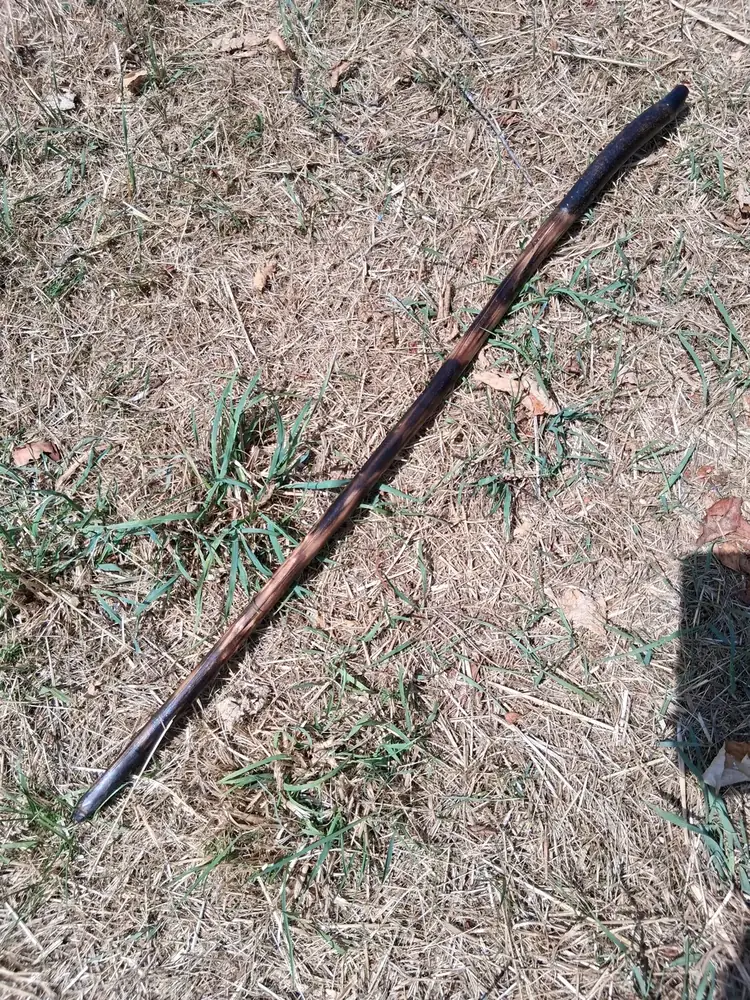
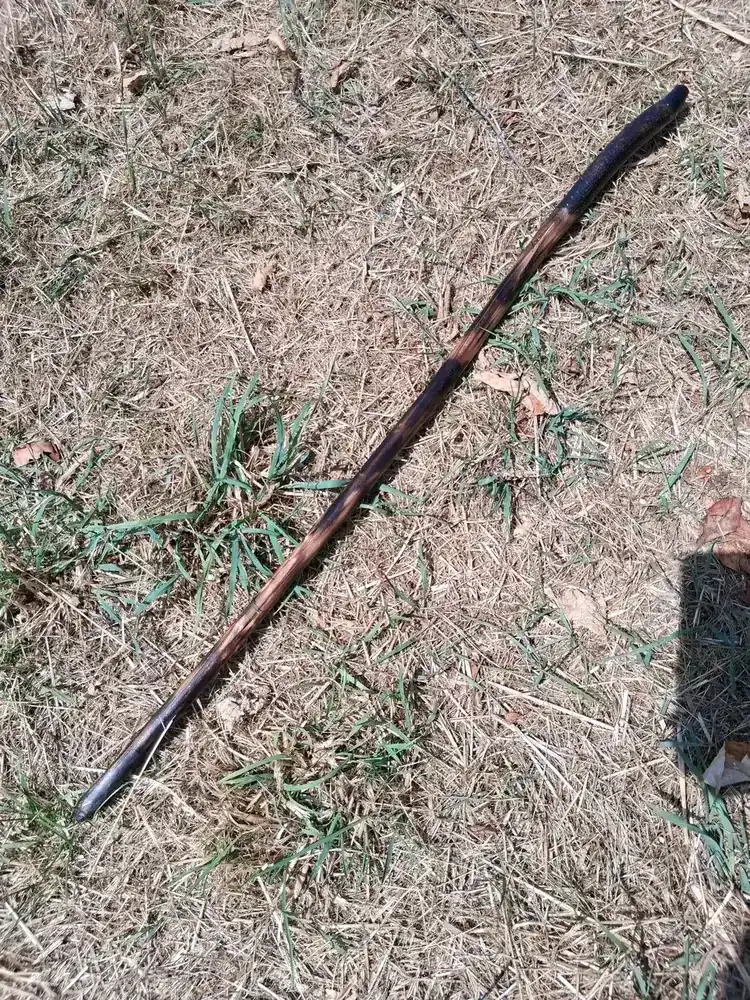
Cap image size on upload: new gallery/wood photos now get resized client-side (max 1400px, quality 0.75 WebP) before reaching storage, so a raw 3000px+ phone camera photo doesn't bloat every page that shows it. Also recompressed the 7 legacy gallery photos (~20% smaller, no visible quality loss). In

diff --git a/public/woods.html b/public/woods.html
@@ -432,10 +432,38 @@
   overlay.addEventListener('click', (e) => { if (e.target === overlay) closeWoodModal(); });
   document.addEventListener('keydown', (e) => { if (e.key === 'Escape' && !overlay.hidden) closeWoodModal(); });
 
+  async function resizeImageFile(file, maxDim = 1400, quality = 0.75) {
+    if (!file.type.startsWith('image/')) return file; // never touch videos
+    try {
+      const bitmap = await createImageBitmap(file);
+      const { width, height } = bitmap;
+      if (Math.max(width, height) <= maxDim) {
+        bitmap.close?.();
+        return file;
+      }
+      const scale = maxDim / Math.max(width, height);
+      const targetW = Math.round(width * scale);
+      const targetH = Math.round(height * scale);
+      const canvas = document.createElement('canvas');
+      canvas.width = targetW;
+      canvas.height = targetH;
+      const ctx = canvas.getContext('2d');
+      ctx.drawImage(bitmap, 0, 0, targetW, targetH);
+      bitmap.close?.();
+      const blob = await new Promise(resolve => canvas.toBlob(resolve, 'image/webp', quality));
+      if (!blob) return file;
+      return new File([blob], file.name.replace(/\.\w+$/, '.webp'), { type: 'image/webp' });
+    } catch (e) {
+      console.warn('Image resize failed, uploading original file instead', e);
+      return file;
+    }
+  }
+
   async function uploadWoodPhoto(file) {
-    const ext = file.name.split('.').pop();
+    const processed = await resizeImageFile(file);
+    const ext = processed.name.split('.').pop();
     const path = `${Date.now()}-${Math.random().toString(36).slice(2, 8)}.${ext}`;
-    const { error } = await supabase.storage.from('wood-photos').upload(path, file, { cacheControl: '3600', upsert: false });
+    const { error } = await supabase.storage.from('wood-photos').upload(path, processed, { cacheControl: '3600', upsert: false });
     if (error) throw error;
     return path;
   }

diff --git a/public/gallery.html b/public/gallery.html
@@ -487,10 +487,38 @@
     editPriceWrap.hidden = editStatus.value !== 'priced';
   });
 
+  async function resizeImageFile(file, maxDim = 1400, quality = 0.75){
+    if (!file.type.startsWith('image/')) return file; // never touch videos
+    try {
+      const bitmap = await createImageBitmap(file);
+      const { width, height } = bitmap;
+      if (Math.max(width, height) <= maxDim){
+        bitmap.close?.();
+        return file; // already a reasonable size, leave it alone
+      }
+      const scale = maxDim / Math.max(width, height);
+      const targetW = Math.round(width * scale);
+      const targetH = Math.round(height * scale);
+      const canvas = document.createElement('canvas');
+      canvas.width = targetW;
+      canvas.height = targetH;
+      const ctx = canvas.getContext('2d');
+      ctx.drawImage(bitmap, 0, 0, targetW, targetH);
+      bitmap.close?.();
+      const blob = await new Promise(resolve => canvas.toBlob(resolve, 'image/webp', quality));
+      if (!blob) return file; // fallback if the browser can't encode webp
+      return new File([blob], file.name.replace(/\.\w+$/, '.webp'), { type: 'image/webp' });
+    } catch (e) {
+      console.warn('Image resize failed, uploading original file instead', e);
+      return file;
+    }
+  }
+
   async function uploadGalleryFile(file){
-    const ext = file.name.split('.').pop();
+    const processed = await resizeImageFile(file);
+    const ext = processed.name.split('.').pop();
     const path = `${Date.now()}-${Math.random().toString(36).slice(2, 8)}.${ext}`;
-    const { error } = await supabase.storage.from('gallery-photos').upload(path, file, { cacheControl: '3600', upsert: false });
+    const { error } = await supabase.storage.from('gallery-photos').upload(path, processed, { cacheControl: '3600', upsert: false });
     if (error) throw error;
     return path;
   }
